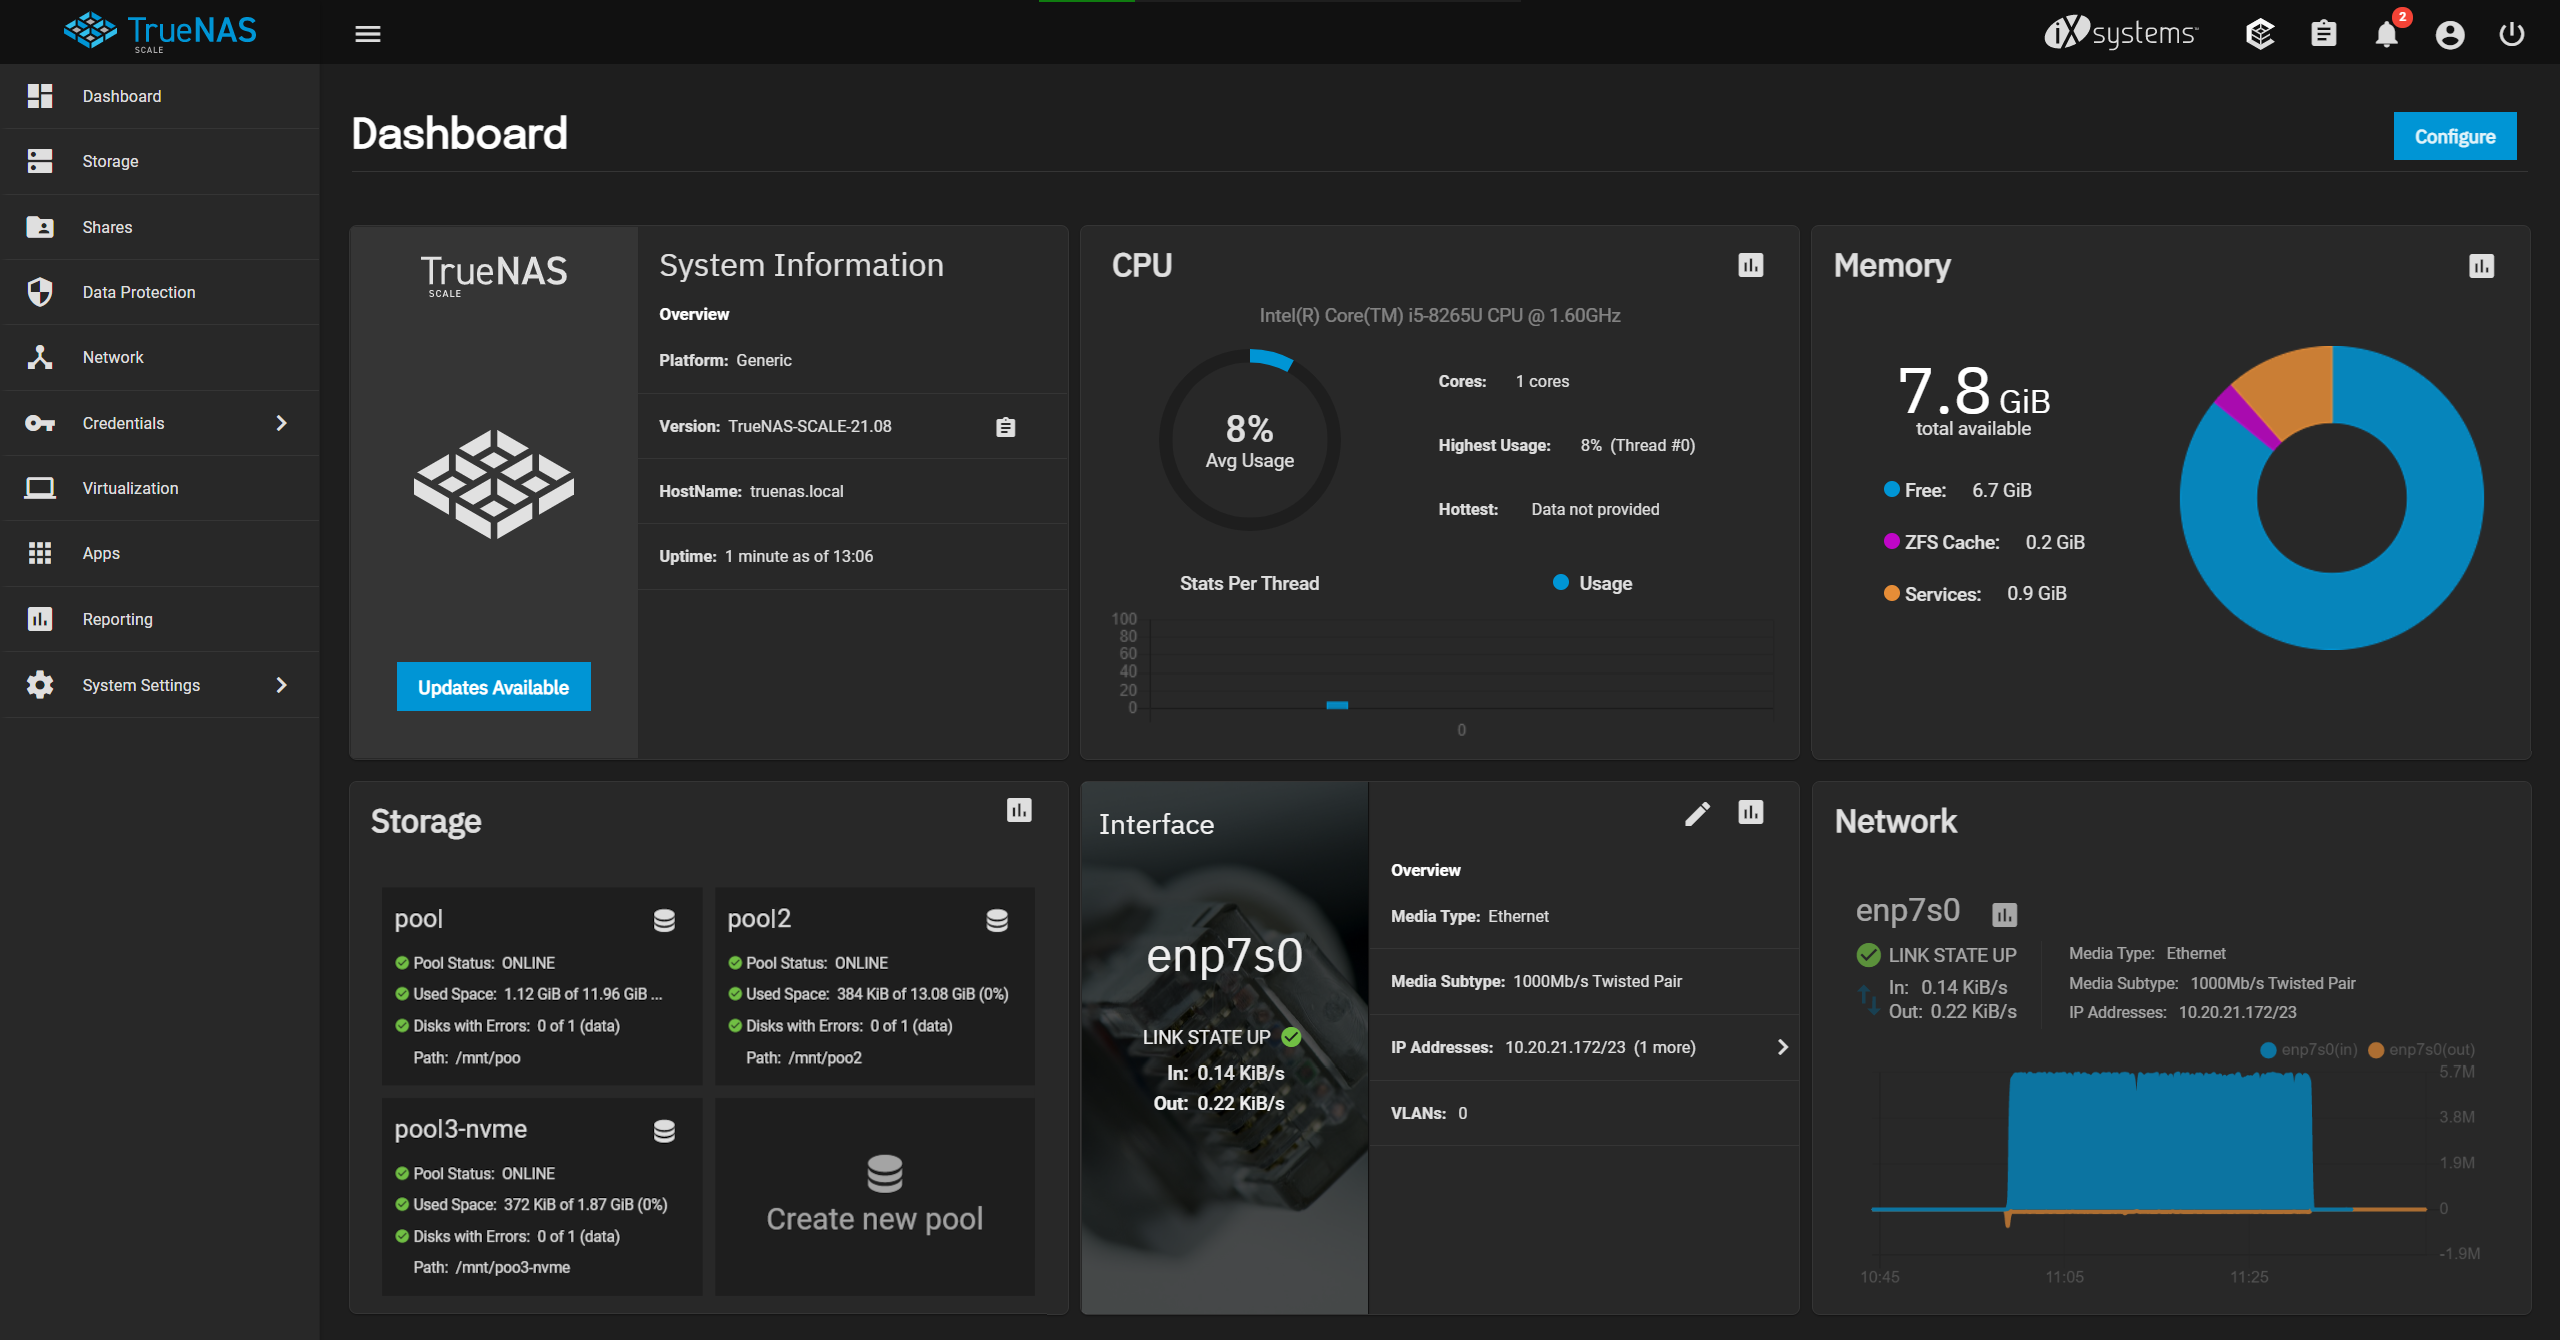
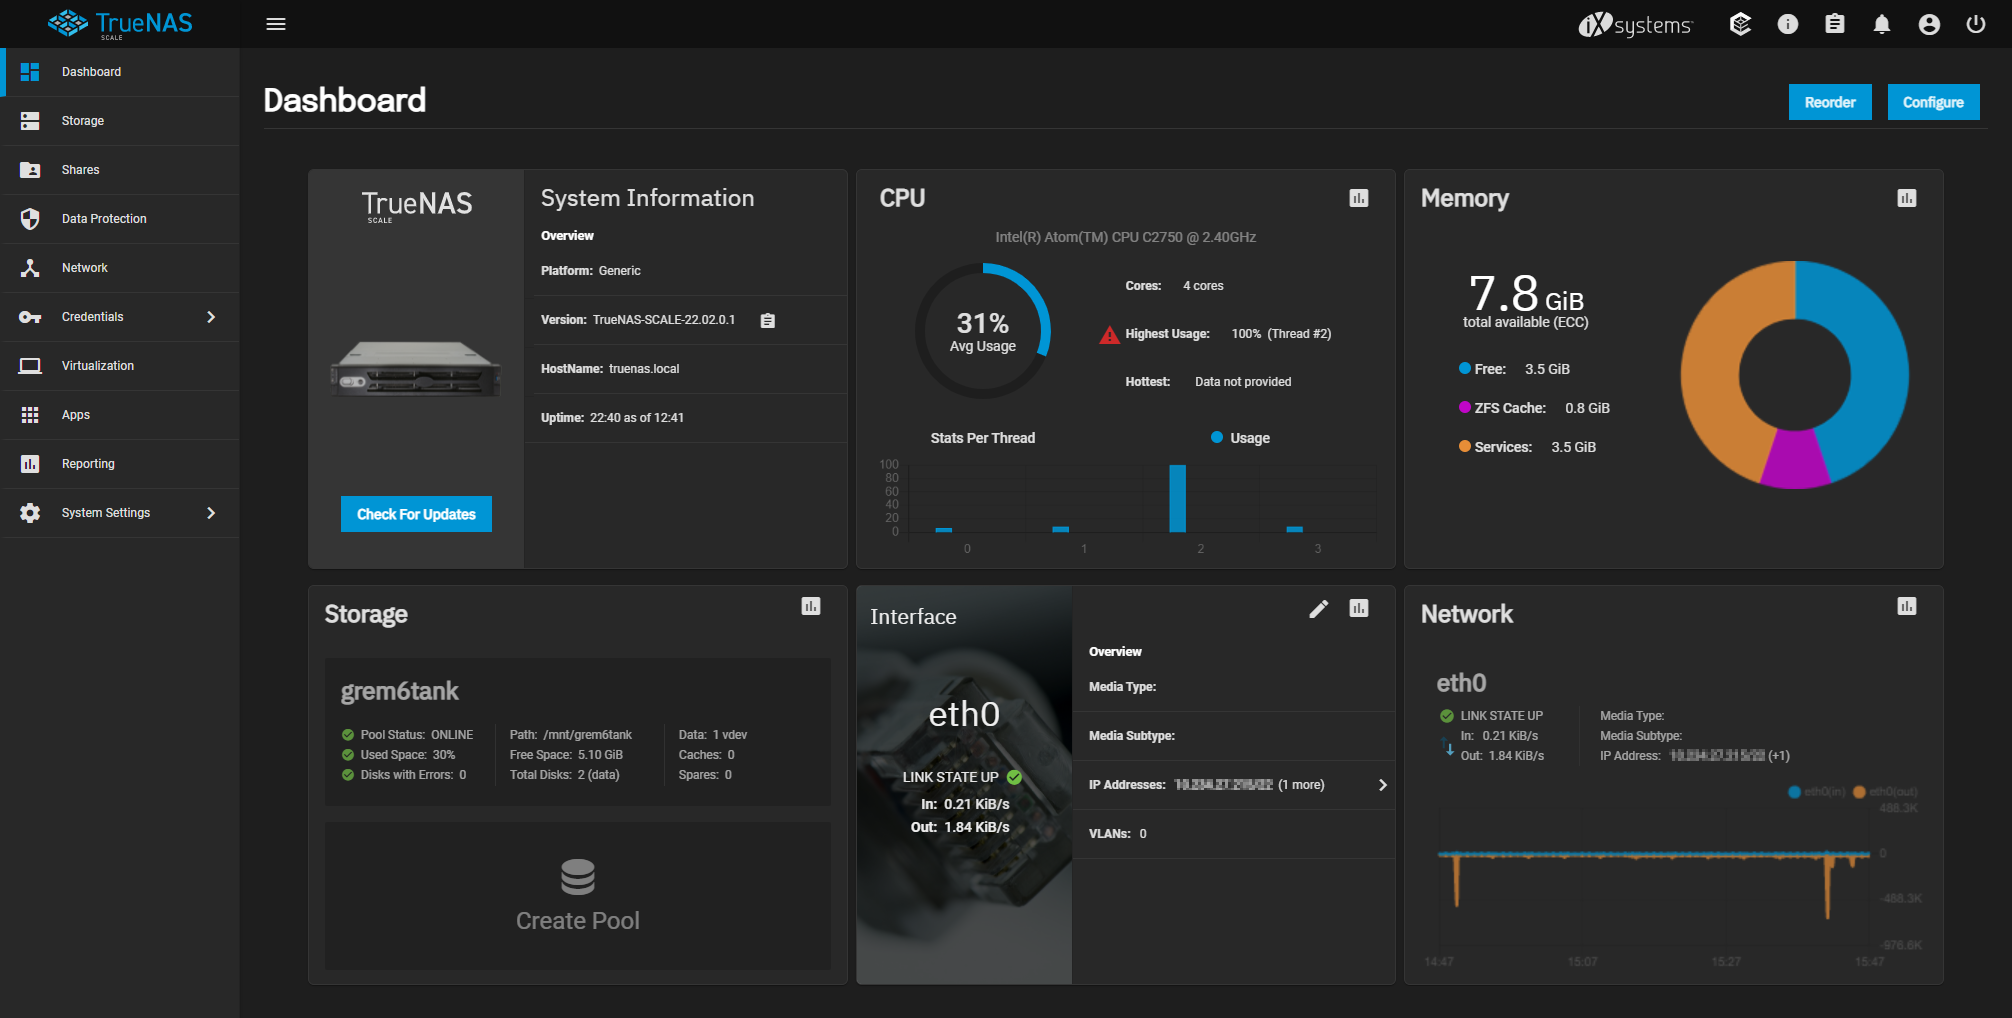
DOCS-3245 SCALE 22.02 Document Dashboard Changes and New Functions
Added passage for new feature and did a grammar pass for the whole article.

diff --git a/content/SCALE/GettingStarted/FirstTimeLogin.md b/content/SCALE/GettingStarted/FirstTimeLogin.md
@@ -24,8 +24,8 @@ To view the web interface IP address or reconfigure web interface access, connec
 
 When powering on a TrueNAS system, the system attempts to connect to a DHCP server from all live interfaces to access the web UI.
 On networks that support Multicast Domain Name Services (mDNS), the system can use a hostname and domain to access the TrueNAS web interface.
-By default, TrueNAS uses the hostname and domain *truenas.local*.
-To change the hostname and domain in the web interface, go to **Network** and click *Settings* in the *Global Configuration* window.
+By default, TrueNAS uses the hostname and domain truenas.local.
+To change the hostname and domain in the web interface, go to **Network** and click **Settings** in the **Global Configuration** window.
 
 To access the web interface using an IP address, use the one that the Console Setup Menu generated after installing SCALE, or use the one you configured in the [Post-install Configuration article]({{< relref "Post-installConfiguration.md" >}}) if you upgraded from CORE.
 
@@ -38,7 +38,7 @@ On a computer with access to the same network as the TrueNAS system, enter the h
 
 ![LoginSCALE](/images/SCALE/LoginSCALE.png "TrueNAS SCALE Login Screen")
 
-Enter the `root` username and account password that you created during installation.
+Enter the `root` username and account password you created during installation.
 
 {{< expand "Troubleshooting" "v" >}}
 If the user interface is not accessible by IP address from a browser, check these things:
@@ -59,7 +59,7 @@ If the UI becomes unresponsive after an upgrade or other system operation, clear
 {{< embed-video name="scaletour" >}}
 
 After logging in, you will see the system **Dashboard**.
-The dashboard displays basic information about the installed version, systems component usage, and network traffic. For users with compatible TrueNAS
+**Dashboard** displays basic information about the installed version, systems component usage, and network traffic. For users with compatible TrueNAS
 Hardware, clicking the system image will take you to the **System Settings > Enclosure** page. 
 
 ![DashboardSCALE](/images/SCALE/DashboardSCALE.png "TrueNAS SCALE Dashboard")
@@ -68,7 +68,7 @@ The **Dashboard** provides access to all TrueNAS management options.
 The top row has links to outside resources and buttons to control the system.
 The left-hand column lets users navigate to the various TrueNAS Configuration screens.
 
-Users can select which widgets appear on the dashboard by clicking *Configure*.
+You can reorder dashboard widgets by clicking **Reorder** and then dragging them into your preferred order. You can also choose which widgets appear on the dashboard by clicking **Configure**.
 
 ![ConfigureWidgetsSCALE](/images/SCALE/ConfigureWidgetsSCALE.png "Dashboard Configuration")
 
@@ -80,21 +80,21 @@ Buttons in the top bar menu link to the iXsystems site, display the status of Tr
 
 {{< tabs "Top Row Menu" >}}
 {{< tab "iXsystems" >}}
-The iXsystems button opens the [iXsystems home page](https://www.ixsystems.com/) where users can find information about storage and server systems.
+The iXsystems button opens the [iXsystems home page](https://www.ixsystems.com/). There, users can find information about storage and server systems.
 
 Users can also use the iXsystems home page to access their customer portal and community section for support.
 {{< /tab >}}
 
 {{< tab "Status of TrueCommand" >}}
-The *Status of TrueCommand* button lets users sign up with and connect to [TrueCommand Cloud]({{< relref "/content/TrueCommand/_index.md" >}}).
+The **Status of TrueCommand** button lets users sign up with and connect to [TrueCommand Cloud]({{< relref "/content/TrueCommand/_index.md" >}}).
 
 ![StatusOfTrueCommandSCALE](/images/SCALE/StatusOfTrueCommandSCALE.png "Status of TrueCommand")
 
-Clicking *SIGNUP* will open the TrueCommand signup page in a new tab.
+Clicking **SIGNUP** will open the TrueCommand signup page in a new tab.
 
 ![SignUpTrueCommandSCALE](/images/SCALE/SignUpTrueCommandSCALE.png "TrueCommand Cloud Signup")
 
-Once users have signed up, they can click the *CONNECT* button and enter their API key to connect SCALE to TrueCommand Cloud.
+Once users have signed up, they can click the **CONNECT** button and enter their API key to connect SCALE to TrueCommand Cloud.
 
 ![ConnectToTrueCommandSCALE](/images/SCALE/ConnectToTrueCommandSCALE.png "Connect to TrueCommand Cloud")
 {{< /tab >}}
@@ -104,25 +104,25 @@ The Task Manager displays all running and failed jobs/processes.
 
 ![TaskManagerSCALE](/images/SCALE/TaskManagerSCALE.png "TrueNAS SCALE Task Manager")
 
-Users can click the *History* button to open the **Jobs** screen. **Jobs** lists all *Successful*, *Active*, and *Failed* jobs. Users can also click *View Logs* next to a failed process to view its log information and error message.
+Users can click the **History** button to open the **Jobs** screen. **Jobs** lists all Successful, Active, and Failed jobs. Users can also click **View Logs** next to a failed process to view its log information and error message.
 
 ![TaskManagerHistorySCALE](/images/SCALE/TaskManagerHistorySCALE.png "Task Manager History")
 {{< /tab >}}
 
 {{< tab "Alerts" >}}
-The *Alerts* button displays the *Alerts* menu, which shows all current alerts. Users may dismiss alerts individually, or all at once.
+The **Alerts** button displays the **Alerts** menu, which shows all current alerts. Users may dismiss them individually or all at once.
 
-The *Alerts* menu also lets users configure *Alert Settings*, *Alert Services*, and *Email*.
+The **Alerts** menu also lets users configure **Alert Settings**, **Alert Services**, and **Email**.
 
 ### Alert Settings
 
-The *Alert Settings* screen has options for setting the warning level and frequency for alerts specific to application actions.
+The **Alert Settings** screen has options for setting the warning level and frequency for alerts specific to application actions.
 
 ![AlertSettingsSCALE](/images/SCALE/AlertSettingsSCALE.png "TrueNAS SCALE Alert Settings")
 
-The *Set Warning Level* drop-downs customize alert importance. Each warning level has an icon and color to express its urgency.
+The **Set Warning Level** drop-downs customize alert importance. Each warning level has an icon and color to express its urgency.
 
-The *Set Frequency* drop-downs adjust how often the system sends alert notifications. Setting the *Frequency* to *NEVER* prevents that alert from being in the *Alerts* menu, but it will still pop up in the UI if triggered.
+The **Set Frequency** drop-downs adjust how often the system sends alert notifications. Setting the **Frequency** to *NEVER* prevents that alert from being in the **Alerts** menu, but it will still pop up in the UI if triggered.
 
 #### Alert Warning Levels
 
@@ -140,11 +140,11 @@ Each warning level has a different icon and color to express its urgency. To mak
 
 ### Alert Services
 
-The *Alert Services* screen has options to create and edit alert services. The *Alert Services* screen displays existing alert services in a list that users can filter by *Type*, *Level*, and *Enabled*.
+The **Alert Services** screen has options to create and edit alert services. The **Alert Services** screen displays existing services in a list that users can filter by *Type*, *Level*, and *Enabled*.
 
 ![AlertServicesSCALE](/images/SCALE/AlertServicesSCALE.png "TrueNAS SCALE Alert Services")
 
-To create a new alert service, click *Add* and fill out the form, then click *Save*.
+To create a new alert service, click **Add** and fill out the form, then click **Save**.
 
 ![NewAlertServiceSCALE](/images/SCALE/NewAlertServiceSCALE.png "New TrueNAS SCALE Alert Service")
 
@@ -166,11 +166,11 @@ To create a new alert service, click *Add* and fill out the form, then click *Sa
 | Key ID | Access Key ID for the linked AWS account. |
 | Secret Key | Secret Access Key for the linked AWS account. |
 
-The *SEND TEST ALERT* button generates a test alert to confirm the alert service will work correctly.
+The **SEND TEST ALERT** button generates a test alert to confirm the alert service will work correctly.
 
 ### Email
 
-The *Email* screen has options for users to set up a system email address.
+The **Email** screen lets you set up a system email address.
 
 ![AlertEmailSCALE](/images/SCALE/AlertEmailSCALE.png "Email General Options")
 
@@ -185,11 +185,11 @@ The *Email* screen has options for users to set up a system email address.
 | Security | [Email encryption](https://www.fastmail.com/help/technical/ssltlsstarttls.html) type. Choices are Plain (No Encryption), SSL (Implicit TLS), or TLS (STARTTLS). |
 | SMTP Authentication | Enable [SMTP AUTH](https://en.wikipedia.org/wiki/SMTP_Authentication) using PLAIN SASL. Requires a valid Username and Password. |
 
-The *Send Test Mail* button generates a test email to confirm the system email works correctly.
+The **Send Test Mail** button generates a test email to confirm the system email works correctly.
 {{< /tab >}}
 
 {{< tab "Settings" >}}
-The *Settings* button has options for passwords, web interface preferences, API Keys, and TrueNAS information.
+The **Settings** button has options for passwords, web interface preferences, API Keys, and TrueNAS information.
 
 ### Change Password
 
@@ -207,27 +207,27 @@ Clicking **Preferences** lets users select general preferences for the system.
 | Prefer buttons with icons only | Preserve screen space with icons and tooltips instead of text labels. |
 | Enable Password Toggle | When set, an eye icon appears next to password fields. Clicking the icon reveals the password. |
 | Reset Table Columns to Default | Reset all tables to display default columns. |
-| Retro Logo | Revert branding back to FreeNAS. |
+| Retro Logo | Revert branding to FreeNAS. |
 | Reset All Preferences to Default | Reset all user preferences to their default values (custom themes are preserved). |
 
 ### API Keys
 
-The *API Keys* section lets users add API Keys that identify outside resources and applications without a principal.
+The **API Keys** section lets users add API Keys that identify outside resources and applications without a principal.
 
-Users may also click *DOCS* to access their system's API documentation.
+Users may also click **DOCS** to access their system API documentation.
 
 ### Guide and About
 
-Clicking the *Guide* button opens the TrueNAS Documentation Hub in a new tab.
+Clicking the **Guide** button opens the TrueNAS Documentation Hub in a new tab.
 
-Clicking the *About* button brings up links to the TrueNAS Documentation Hub, the TrueNAS Community Forums, the FreeNAS Open Source Storage Appliance GitHub repository, and the iXsystems homepage.
+Clicking the **About** button displays links to the TrueNAS Documentation Hub, the TrueNAS Community Forums, the FreeNAS Open Source Storage Appliance GitHub repository, and the iXsystems homepage.
 {{< /tab >}}
 
 {{< tab "Power" >}}
-The *Power* button lets the user log out of, restart, or shut down the system.
+The **Power** button lets the user log out of, restart, or shut down the system.
 {{< /tab >}}
 {{< /tabs >}}
 
 ## Storing Data
 
-Now that you can access the TrueNAS web interface and see all the management options, it's time to begin [storing data]({{< relref "/SCALE/Storage/_index.md" >}})!
+Now that you can access the TrueNAS web interface and see all the management options, you can begin [storing data]({{< relref "/SCALE/Storage/_index.md" >}})!
